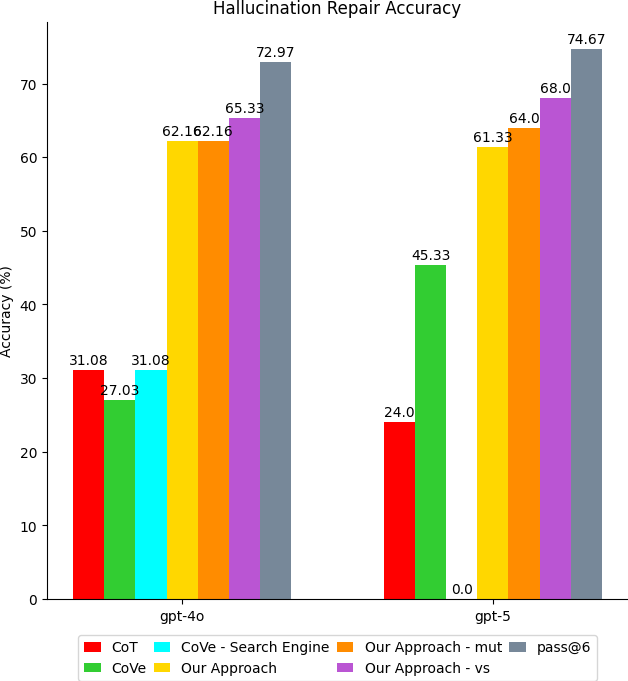
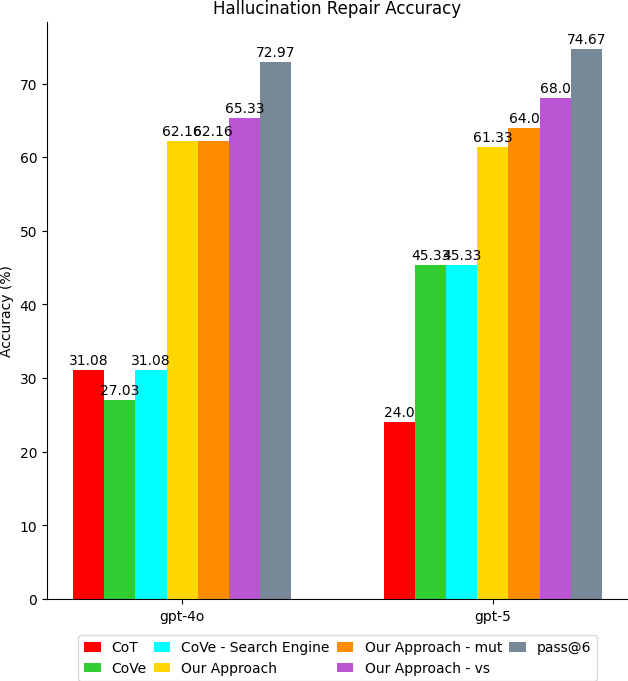
Move and update sample responses, update stats and slides
Moved gpt-5 sample responses CSV to outputs/cove-se directory. Updated statistical analysis scripts, figures, and data files in the stat directory. Added new presentation slide for 20251216 and updated 20251210.pptx.

Changed region(s): [[0.6959, 0.37, 0.7866, 0.8943]]

diff --git a/stat/accuracy_figure.py b/stat/accuracy_figure.py
@@ -12,7 +12,7 @@ mpl.rcParams['savefig.pad_inches'] = 0
 labels = ['gpt-4o', 'gpt-5']
 group0 = [31.08, 24]
 group1 = [27.03, 45.33]
-group2 = [31.08, 0]
+group2 = [31.08, 45.33]
 group3 = [62.16, 61.33]
 group4 = [62.16, 64]
 group5 = [65.33, 68]

diff --git a/stat/calculate2.py b/stat/calculate2.py
@@ -1,7 +1,7 @@
 import pandas as pd
 
 # df = pd.read_csv("../gpt-4o_mutation_outputs_dataset20250926_hallucination.csv", encoding="latin-1")
-df = pd.read_csv("../outputs/cove/gpt-5_cove_outputs_gpt-5_sample_responses.csv", encoding="latin-1")
+df = pd.read_csv("../outputs/cove-se/gpt-5_cove_se_outputs_gpt-5_sample_responses.csv", encoding="latin-1")
 total_samples = len(df)
 print(f"Total samples: {total_samples}")
 

diff --git a/stat/overcorrection_figure.py b/stat/overcorrection_figure.py
@@ -12,7 +12,7 @@ mpl.rcParams['savefig.pad_inches'] = 0
 labels = ['gpt-4o', 'gpt-5']
 group0 = [3.95, 2.67]
 group1 = [9.21, 9.33]
-group2 = [7.89, 0]
+group2 = [7.89, 10.67]
 group3 = [5.26, 1.33]
 group4 = [2.63, 0]
 group5 = [4, 0]

diff --git a/stat/recheck_hallucination_figure.py b/stat/recheck_hallucination_figure.py
@@ -12,7 +12,7 @@ mpl.rcParams['savefig.pad_inches'] = 0
 labels = ['gpt-4o', 'gpt-5']
 group0 = [36, 39.33]
 group1 = [40.67, 32]
-group2 = [38, 0]
+group2 = [38, 32.67]
 group3 = [21.33, 20]
 group4 = [20, 18]
 group5 = [19.33, 16]